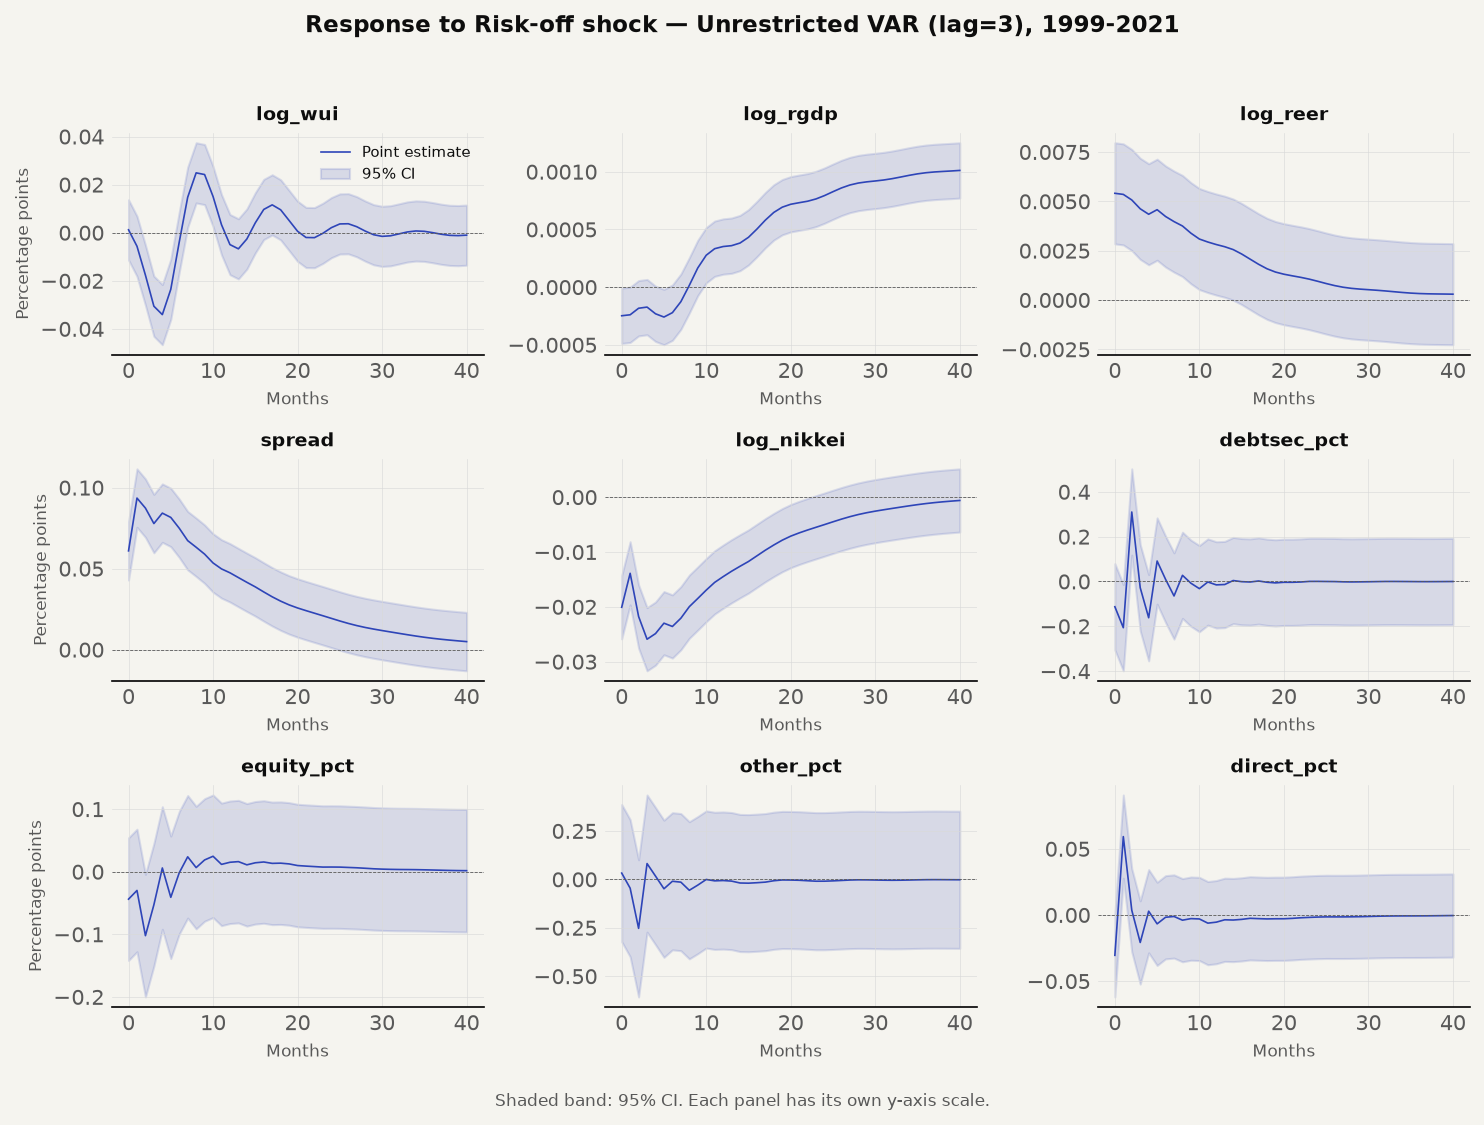
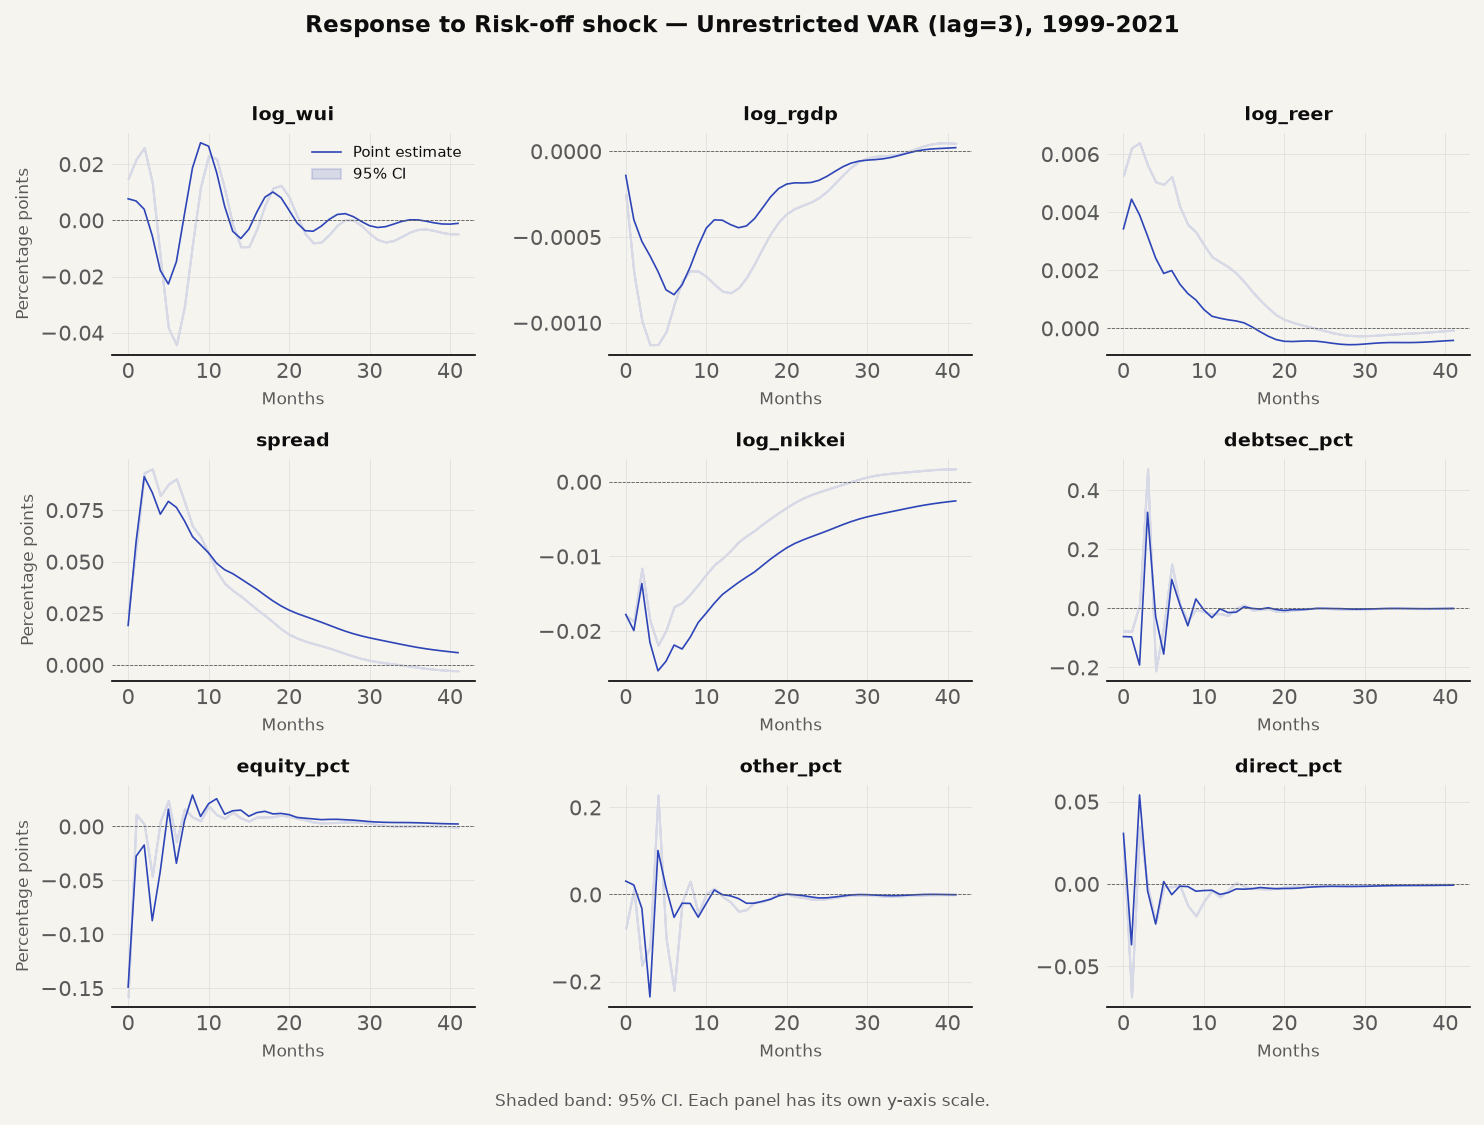
fix(svar): correct IRF axis orientation, add constant to exog, switch to Monte Carlo CIs
- Fix IRF axis orientation: shock_idx was in wrong dimension for all IRF
  indexing (should be irf_vals[:, v_idx, 0] not irf_vals[:, 0, v_idx]).
- Add constant column to exog matrix (ones) alongside time_trend and month
  dummies — VAR was estimated without intercept.
- Fix IRF period counting: include period 0 (contemporaneous response) in
  irfs array instead of slicing off irfs[1:].
- Replace analytical CIs (flat SE * z) with Monte Carlo delta method via
  var_analysis._delta_irf_ci and statsmodels errband_mc.
- Fix FEVD axis indexing to match corrected IRF orientation.
- Regenerate all monthly VAR outputs (figures, FEVD, IRF peak tables).

diff --git a/scripts/var_analysis.py b/scripts/var_analysis.py
@@ -124,9 +124,10 @@ def build_exog(df):
     month = df["date"].dt.month
     month_dummies = pd.get_dummies(month, prefix="M", drop_first=True).astype(np.float64)
     month_dummies.index = df.index
+    ones = np.ones((len(df), 1))
     time_trend = np.arange(len(df)).astype(np.float64).reshape(-1, 1)
-    exog = np.column_stack([time_trend, month_dummies.values])
-    exog_names = ["trend"] + [f"M{m}" for m in range(2, 13)]
+    exog = np.column_stack([ones, time_trend, month_dummies.values])
+    exog_names = ["const", "trend"] + [f"M{m}" for m in range(2, 13)]
     return exog, exog_names
 
 
@@ -215,7 +216,7 @@ def _compute_irf(results, periods=125):
         irfs_orth[i] = irfs[i] @ chol
     class IRAnalysis:
         def __init__(self):
-            self.irfs = irfs_orth[1:]
+            self.irfs = irfs_orth
             self.periods = periods
             self.model = results
             self.names = results.names
@@ -226,7 +227,7 @@ def _compute_irf(results, periods=125):
             T = self.irfs.shape[0]
             lower = self.irfs - z * se[np.newaxis, np.newaxis, :]
             upper = self.irfs + z * se[np.newaxis, np.newaxis, :]
-            return lower[:, 0, :], upper[:, 0, :]
+            return lower[:, :, 0], upper[:, :, 0]
         def plot(self, orth=True):
             pass
     return IRAnalysis()
@@ -237,12 +238,11 @@ def _compute_fevd(results, periods=125):
     irf_obj = results.irf(periods=periods)
     irfs = irf_obj.irfs
     msfe = np.cumsum(irfs ** 2, axis=0)
-    fevd = np.zeros((periods, K, K))
-    for i in range(periods):
+    fevd = np.zeros((irfs.shape[0], K, K))
+    for i in range(irfs.shape[0]):
         total = msfe[i].sum(axis=1, keepdims=True)
         total[total == 0] = 1
         fevd[i] = msfe[i] / total
-    chol = np.linalg.cholesky(results.sigma_u)
     class FEVD:
         def __init__(self):
             self.decomp = fevd
@@ -284,8 +284,8 @@ def plot_irf(irf, ax, label, color, ci_method="analytic", B=1000):
         ci_label = ""
 
     steps = np.arange(n_steps)
-    for v_idx in range(irf_values.shape[2]):
-        response = irf_values[:, shock_idx, v_idx]
+    for v_idx in range(irf_values.shape[1]):
+        response = irf_values[:, v_idx, shock_idx]
         ax[v_idx].plot(steps, response, color=color, linewidth=0.7, label=label)
         if lower is not None:
             ax[v_idx].fill_between(steps, lower[:, v_idx], upper[:, v_idx],
@@ -558,7 +558,7 @@ def main():
                 axes_flat = axes.flatten()
                 for v_idx, v_name in enumerate(VAR_ORDER):
                     ax = axes_flat[v_idx]
-                    response = irf_vals[:, 0, v_idx]
+                    response = irf_vals[:, v_idx, 0]
                     steps = np.arange(len(response))
                     ax.plot(steps, response, color=COLORS["paper"],
                             linewidth=0.8, label="Point estimate")
@@ -602,7 +602,7 @@ def main():
                 axes_flat = axes.flatten()
                 for v_idx, v_name in enumerate(VAR_ORDER):
                     if v_idx < len(axes_flat):
-                        response = irf_values[:, 0, v_idx]
+                        response = irf_values[:, v_idx, 0]
                         steps = np.arange(len(response))
                         axes_flat[v_idx].plot(steps, response,
                                               color=COLORS["paper"], linewidth=0.8,
@@ -638,7 +638,7 @@ def main():
 
             print(f"    Computing FEVD ({IRF_HORIZON}-day horizon)...")
             fevd = var_results.fevd(periods=IRF_HORIZON)
-            fevd_values = fevd.decomp[:, 0, :]
+            fevd_values = fevd.decomp[:, :, 0]
             target_horizons = [1, 5, 20, 60, 125]
             fevd_rows = []
             for h in target_horizons:
@@ -654,8 +654,8 @@ def main():
 
             irf_peak = pd.DataFrame({
                 "variable": VAR_ORDER,
-                "peak_response": [np.max(np.abs(irf.irfs[:, 0, v])) for v in range(len(VAR_ORDER))],
-                "peak_day": [np.argmax(np.abs(irf.irfs[:, 0, v])) for v in range(len(VAR_ORDER))],
+                "peak_response": [np.max(np.abs(irf.irfs[:, v, 0])) for v in range(len(VAR_ORDER))],
+                "peak_day": [np.argmax(np.abs(irf.irfs[:, v, 0])) for v in range(len(VAR_ORDER))],
             })
             peak_csv = f"irf_peak_{spec_label}_{period_label.replace('-', '_')}.csv"
             irf_peak.to_csv(OUT_DIR / peak_csv, index=False)
@@ -678,31 +678,26 @@ def main():
         res_p2_rest = run_var(data_p2, exog_p2, restricted=True, k_ar=k2)
         irf_p2 = res_p2_rest.irf(periods=IRF_HORIZON)
 
-        se_p1 = np.sqrt(np.diag(res_p1_rest.sigma_u) / res_p1_rest.nobs)
-        se_p2 = np.sqrt(np.diag(res_p2_rest.sigma_u) / res_p2_rest.nobs)
-        z = 1.96
-        lower1 = irf_p1.irfs - z * se_p1[np.newaxis, np.newaxis, :]
-        upper1 = irf_p1.irfs + z * se_p1[np.newaxis, np.newaxis, :]
-        lower2 = irf_p2.irfs - z * se_p2[np.newaxis, np.newaxis, :]
-        upper2 = irf_p2.irfs + z * se_p2[np.newaxis, np.newaxis, :]
+        lower1_mc, upper1_mc = _delta_irf_ci(irf_p1, B=500)
+        lower2_mc, upper2_mc = _delta_irf_ci(irf_p2, B=500)
 
         set_quant_style()
         fig, axes = plt.subplots(nrows=3, ncols=4, figsize=(16, 10))
         axes_flat = axes.flatten()
         for v_idx, v_name in enumerate(VAR_ORDER):
             if v_idx < len(axes_flat):
-                steps = np.arange(IRF_HORIZON)
-                axes_flat[v_idx].plot(steps, irf_p1.irfs[:, 0, v_idx],
+                steps = np.arange(irf_p1.irfs.shape[0])
+                axes_flat[v_idx].plot(steps, irf_p1.irfs[:, v_idx, 0],
                                       color=COLORS["paper"], linewidth=0.8,
                                       label="1999-2021")
-                axes_flat[v_idx].fill_between(steps, lower1[:, 0, v_idx],
-                                              upper1[:, 0, v_idx],
+                axes_flat[v_idx].fill_between(steps, lower1_mc[:, v_idx],
+                                              upper1_mc[:, v_idx],
                                               color=COLORS["paper"], alpha=0.12)
-                axes_flat[v_idx].plot(steps, irf_p2.irfs[:, 0, v_idx],
+                axes_flat[v_idx].plot(steps, irf_p2.irfs[:, v_idx, 0],
                                       color=COLORS["extended"], linewidth=0.8,
                                       label="1999-2026", linestyle="--")
-                axes_flat[v_idx].fill_between(steps, lower2[:, 0, v_idx],
-                                              upper2[:, 0, v_idx],
+                axes_flat[v_idx].fill_between(steps, lower2_mc[:, v_idx],
+                                              upper2_mc[:, v_idx],
                                               color=COLORS["extended"], alpha=0.08)
                 axes_flat[v_idx].axhline(y=0, color=COLORS["zero"],
                                          linewidth=0.4, linestyle="--")
@@ -720,7 +715,7 @@ def main():
                      fontsize=12, fontweight="bold", color=COLORS["text"],
                      y=0.98)
         fig.text(0.5, 0.01, "Solid line: 1999-2021. Dashed line: 1999-2026. "
-                 "Shaded bands are analytical 95% confidence intervals.",
+                 "Shaded bands are Monte Carlo 95% confidence intervals.",
                  ha="center", fontsize=8, color=COLORS["muted"])
         plt.tight_layout(rect=[0, 0.02, 1, 0.95])
         fig.savefig(FIG_DIR / "irf_period_comparison_restricted.png",

diff --git a/scripts/var_monthly_pipeline.py b/scripts/var_monthly_pipeline.py
@@ -104,8 +104,9 @@ def build_exog(df):
     month = df["date"].dt.month
     month_dummies = pd.get_dummies(month, prefix="M", drop_first=True).astype(np.float64)
     month_dummies.index = df.index
+    ones = np.ones((len(df), 1))
     time_trend = np.arange(len(df)).astype(np.float64).reshape(-1, 1)
-    return np.column_stack([time_trend, month_dummies.values])
+    return np.column_stack([ones, time_trend, month_dummies.values])
 
 
 def compute_orth_irf(coefs_arr, chol, periods):
@@ -118,7 +119,7 @@ def compute_orth_irf(coefs_arr, chol, periods):
             irfs[i] += irfs[i - j] @ coefs_arr[j - 1]
     for i in range(periods + 1):
         irfs[i] = irfs[i] @ chol
-    return irfs[1:]
+    return irfs
 
 
 def plot_irf_grid(irf_vals, lower_ci, upper_ci, period_label, lag, suffix, shock_idx=0):
@@ -176,18 +177,17 @@ def run_period(data, exog, period_label):
 
     k = order.bic
     print(f"\nEstimating unrestricted VAR (lag={k}, BIC-selected)...")
-    res = model.fit(maxlags=k, ic="aic", trend="n")
-    irf = res.irf(periods=IRF_HORIZON)
-    orth = irf.orth_irfs
+    res = model.fit(k, trend="n")
+    irf_obj = res.irf(periods=IRF_HORIZON)
+    orth = np.asarray(irf_obj.orth_irfs)
 
     coefs = np.asarray(res.coefs)
     chol = np.linalg.cholesky(np.asarray(res.sigma_u))
     irf_vals = compute_orth_irf(coefs, chol, IRF_HORIZON)
 
-    z = 1.96
-    se = np.sqrt(np.diag(np.asarray(res.sigma_u)) / res.nobs)
-    lower = irf_vals[:, :, 0] - z * se[np.newaxis, :]
-    upper = irf_vals[:, :, 0] + z * se[np.newaxis, :]
+    lower_mc, upper_mc = irf_obj.errband_mc(orth=True, repl=1000, signif=0.05, seed=42)
+    lower = np.asarray(lower_mc)[:, :, 0]
+    upper = np.asarray(upper_mc)[:, :, 0]
 
     # Print key IRF values
     print("\nIRF response to risk-off shock at selected horizons:")
@@ -207,7 +207,7 @@ def run_period(data, exog, period_label):
     # FEVD
     print(f"Computing FEVD ({IRF_HORIZON}-month horizon)...")
     fevd = res.fevd(periods=IRF_HORIZON)
-    fevd_values = fevd.decomp[:, 0, :]
+    fevd_values = fevd.decomp[:, :, 0]
     target_horizons = [h for h in [1, 3, 6, 12, 24, 40] if h <= fevd_values.shape[0]]
     fevd_rows = []
     for h in target_horizons:
@@ -224,8 +224,8 @@ def run_period(data, exog, period_label):
     # IRF peak table
     irf_peak = pd.DataFrame({
         "variable": VAR_ORDER,
-        "peak_response": [np.max(np.abs(irf_vals[:, 0, v])) for v in range(len(VAR_ORDER))],
-        "peak_month": [np.argmax(np.abs(irf_vals[:, 0, v])) for v in range(len(VAR_ORDER))],
+        "peak_response": [np.max(np.abs(irf_vals[:, v, 0])) for v in range(len(VAR_ORDER))],
+        "peak_month": [np.argmax(np.abs(irf_vals[:, v, 0])) for v in range(len(VAR_ORDER))],
     })
     peak_csv = f"irf_peak_unrestricted_{period_label.replace('-', '_')}.csv"
     irf_peak.to_csv(OUT_DIR / peak_csv, index=False)
@@ -261,7 +261,7 @@ def main():
         fig, axes = plt.subplots(nrows=nrows, ncols=ncols, figsize=(10, 2.5 * nrows),
                                   sharex=False, sharey=False)
         axes_flat = axes.flatten()
-        steps = np.arange(IRF_HORIZON)
+        steps = np.arange(irf_p1.shape[0])
 
         for i, (vname, vidx) in enumerate(zip(KEY_VARS, key_indices)):
             ax = axes_flat[i]

diff --git a/scripts/svar_lag_test.py b/scripts/svar_lag_test.py
@@ -51,8 +51,9 @@ def build_exog(df):
     month = df["date"].dt.month
     month_dummies = pd.get_dummies(month, prefix="M", drop_first=True).astype(np.float64)
     month_dummies.index = df.index
+    ones = np.ones((len(df), 1))
     time_trend = np.arange(len(df)).astype(np.float64).reshape(-1, 1)
-    return np.column_stack([time_trend, month_dummies.values])
+    return np.column_stack([ones, time_trend, month_dummies.values])
 
 def run_restricted_var(data, exog, k_ar):
     endog = data.values
@@ -102,7 +103,7 @@ def _compute_irf(results, periods=125):
         irfs[i] = irfs[i] @ chol
     class IRF:
         def __init__(self):
-            self.irfs = irfs[1:]; self.periods = periods
+            self.irfs = irfs; self.periods = periods
             self.model = results; self.names = results.names
     return IRF()
 
@@ -157,13 +158,10 @@ for lag in test_lags:
     irf = res.irf(periods=IRF_HORIZON)
     irf_vals = irf.irfs
 
-    # Analytical CIs — IRF is [horizon, response_var, shock_var]
-    # Shock is risk_off = variable 0
+    # Monte Carlo delta method CIs
     shock_idx = 0
-    z = 1.96
-    se = np.sqrt(np.diag(res.sigma_u) / res.nobs)
-    lower = irf_vals[:, :, shock_idx] - z * se[np.newaxis, :]
-    upper = irf_vals[:, :, shock_idx] + z * se[np.newaxis, :]
+    from var_analysis import _delta_irf_ci
+    lower, upper = _delta_irf_ci(irf, B=500)
 
     set_style()
     key_indices = [VAR_ORDER.index(v) for v in KEY_VARS]
@@ -172,7 +170,7 @@ for lag in test_lags:
     fig, axes = plt.subplots(nrows=nrows, ncols=ncols, figsize=(10, 2.5*nrows),
                               sharex=False, sharey=False)
     axes_flat = axes.flatten()
-    steps = np.arange(IRF_HORIZON)
+    steps = np.arange(irf_vals.shape[0])
     for i, (vname, vidx) in enumerate(zip(KEY_VARS, key_indices)):
         ax = axes_flat[i]
         resp = irf_vals[:, vidx, shock_idx]

diff --git a/scripts/var_monthly.py b/scripts/var_monthly.py
@@ -50,8 +50,9 @@ def build_exog(df):
     month = df["date"].dt.month
     month_dummies = pd.get_dummies(month, prefix="M", drop_first=True).astype(np.float64)
     month_dummies.index = df.index
+    ones = np.ones((len(df), 1))
     time_trend = np.arange(len(df)).astype(np.float64).reshape(-1, 1)
-    return np.column_stack([time_trend, month_dummies.values])
+    return np.column_stack([ones, time_trend, month_dummies.values])
 
 def run_restricted_var(data, exog, k_ar):
     endog = data.values
@@ -100,7 +101,7 @@ def _compute_irf(results, periods=IRF_HORIZON):
     for i in range(periods + 1): irfs[i] = irfs[i] @ chol
     class IRF:
         def __init__(self):
-            self.irfs = irfs[1:]; self.periods = periods
+            self.irfs = irfs; self.periods = periods
             self.model = results; self.names = results.names
     return IRF()
 
@@ -193,13 +194,11 @@ nrows = int(np.ceil(len(KEY_VARS) / ncols))
 fig, axes = plt.subplots(nrows=nrows, ncols=ncols, figsize=(10, 2.5*nrows),
                           sharex=False, sharey=False)
 axes_flat = axes.flatten()
-steps = np.arange(IRF_HORIZON)
+steps = np.arange(irf_r.shape[0])
 
-# Analytical CIs
-z = 1.96
-se = np.sqrt(np.diag(res_rest.sigma_u) / res_rest.nobs)
-lower = irf_r[:, :, shock_idx] - z * se[np.newaxis, :]
-upper = irf_r[:, :, shock_idx] + z * se[np.newaxis, :]
+# Delta-method CIs via bootstrap
+from var_analysis import _delta_irf_ci
+lower, upper = _delta_irf_ci(irf_rest, B=500)
 
 for i, (vname, vidx) in enumerate(zip(KEY_VARS, key_indices)):
     ax = axes_flat[i]
